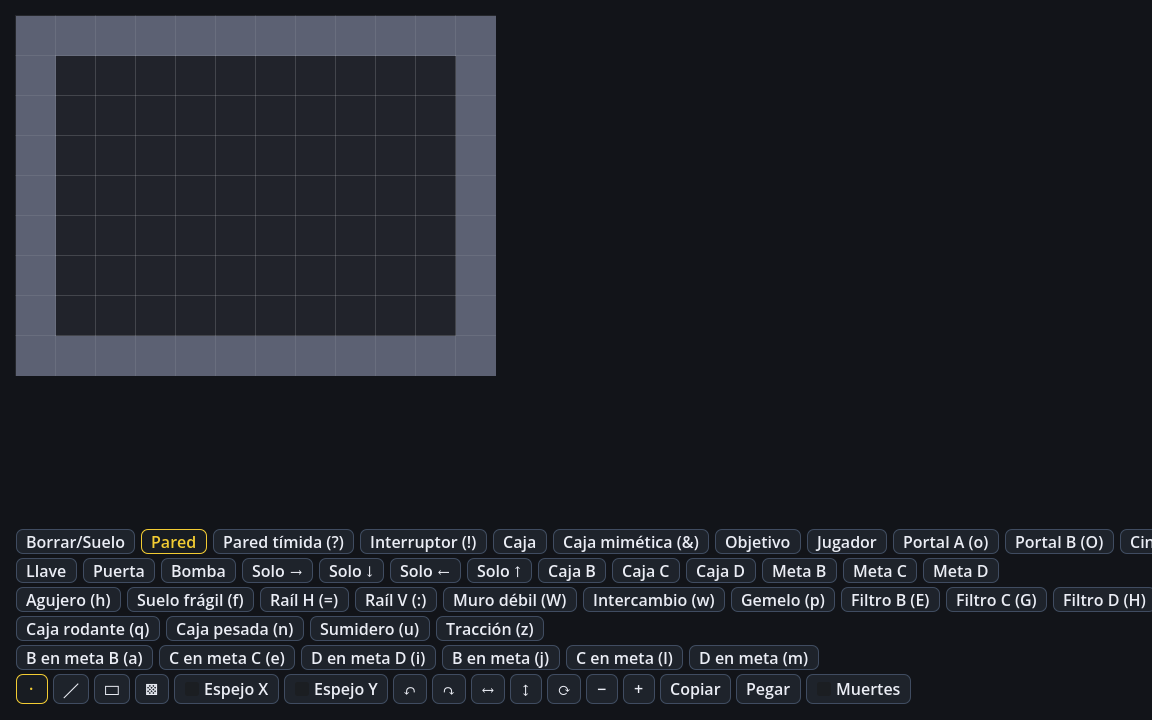
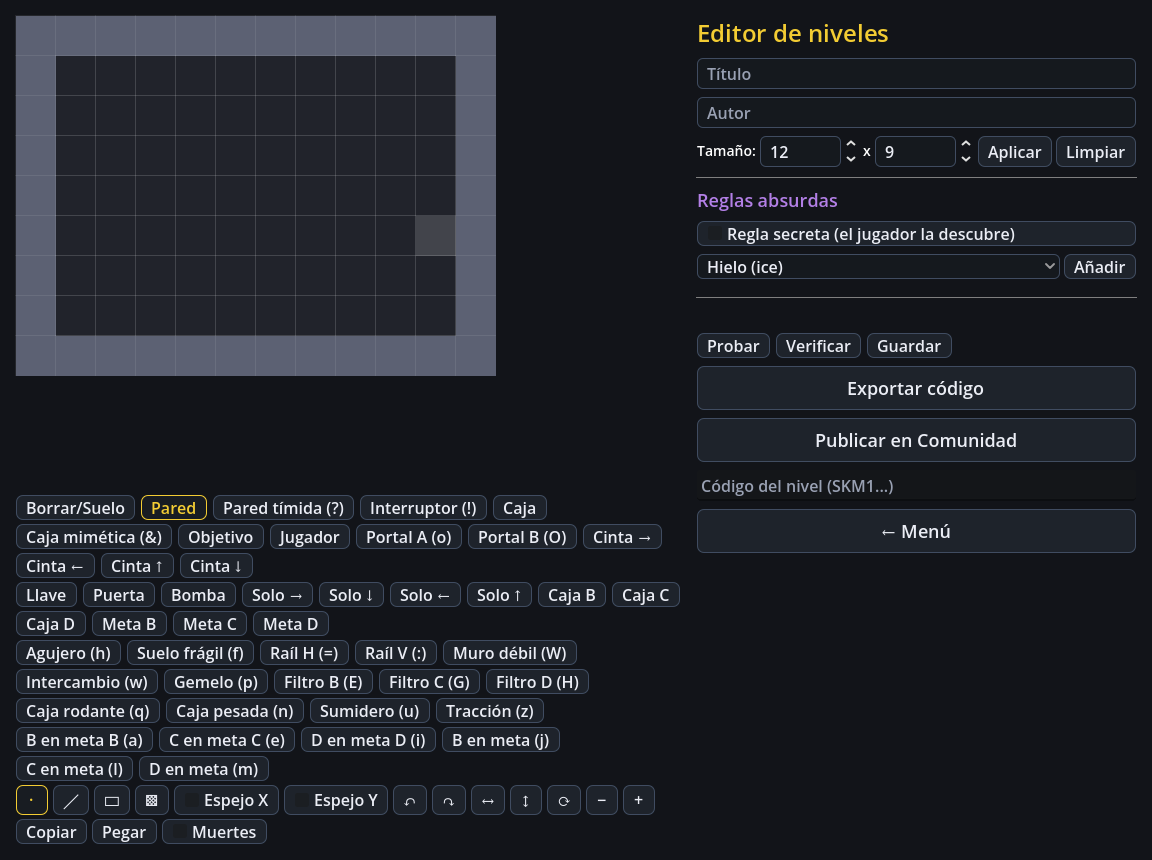
Fix visual: layout de HUD, wrap de paleta del editor, +5 pantallas capturadas
hud_keys ahora hace wrap (el panel lateral comía ~800px y aplastaba el tablero); paleta del editor HBox→HFlowContainer + OptionButton fit_to_longest_item=false (se desbordaba por la derecha); opciones con margen horizontal (cabeceras pegadas al borde); row2 del editor en flow. Screenshots: +stats/options/controls/generator/import; editor se captura a 860px de alto. GIF regenerado con el layout corregido.

diff --git a/README.md b/README.md
@@ -34,6 +34,23 @@ Modo Comunidad estilo Mario Maker con backend autoalojable.
   </tr>
 </table>
 
+<details>
+<summary>Más capturas — selector, mapa, comunidad, ajustes y herramientas</summary>
+
+| Selector de niveles | Mapa de mundo |
+|---|---|
+| ![Selector de niveles con progreso por pack](docs/assets/select.png) | ![Mapa de mundo: camino por la campaña](docs/assets/map.png) |
+
+| Generador | Importador |
+|---|---|
+| ![Generador de niveles con semilla y regla](docs/assets/generator.png) | ![Importar código SKM o tablero XSB](docs/assets/import.png) |
+
+| Estadísticas | Opciones | Controles |
+|---|---|---|
+| ![Estadísticas: campaña, clásicos, diarios, actividad](docs/assets/stats.png) | ![Opciones: tema, skin, audio, HUD, asistencias](docs/assets/options.png) | ![Controles reasignables](docs/assets/controls.png) |
+
+</details>
+
 *Las capturas se regeneran con `godot --path . -s res://tools/screenshots.gd`
 y el GIF con `godot --path . -s res://tools/gif_demo.gd` +
 `python tools/make_gif.py`.*
